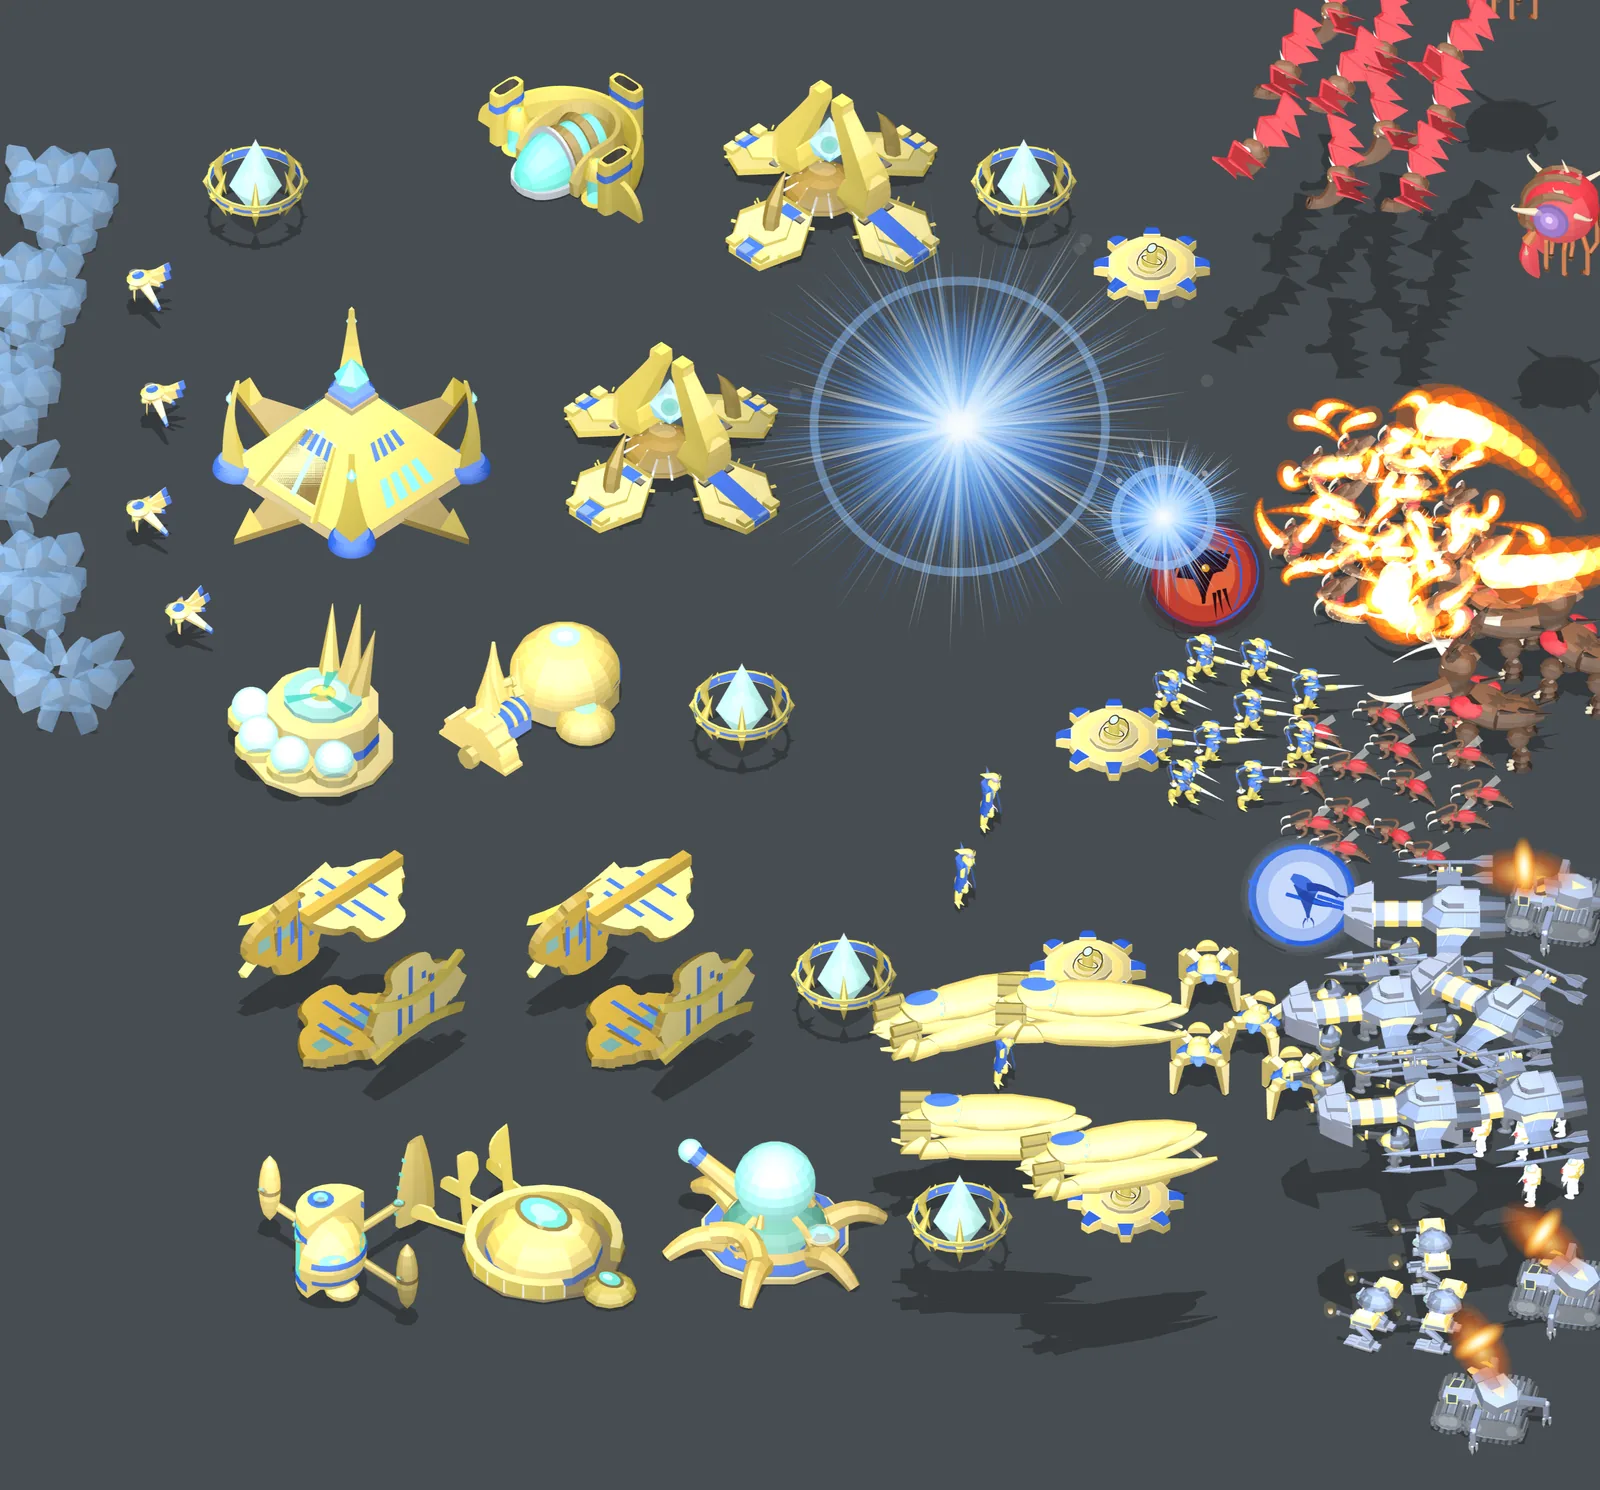
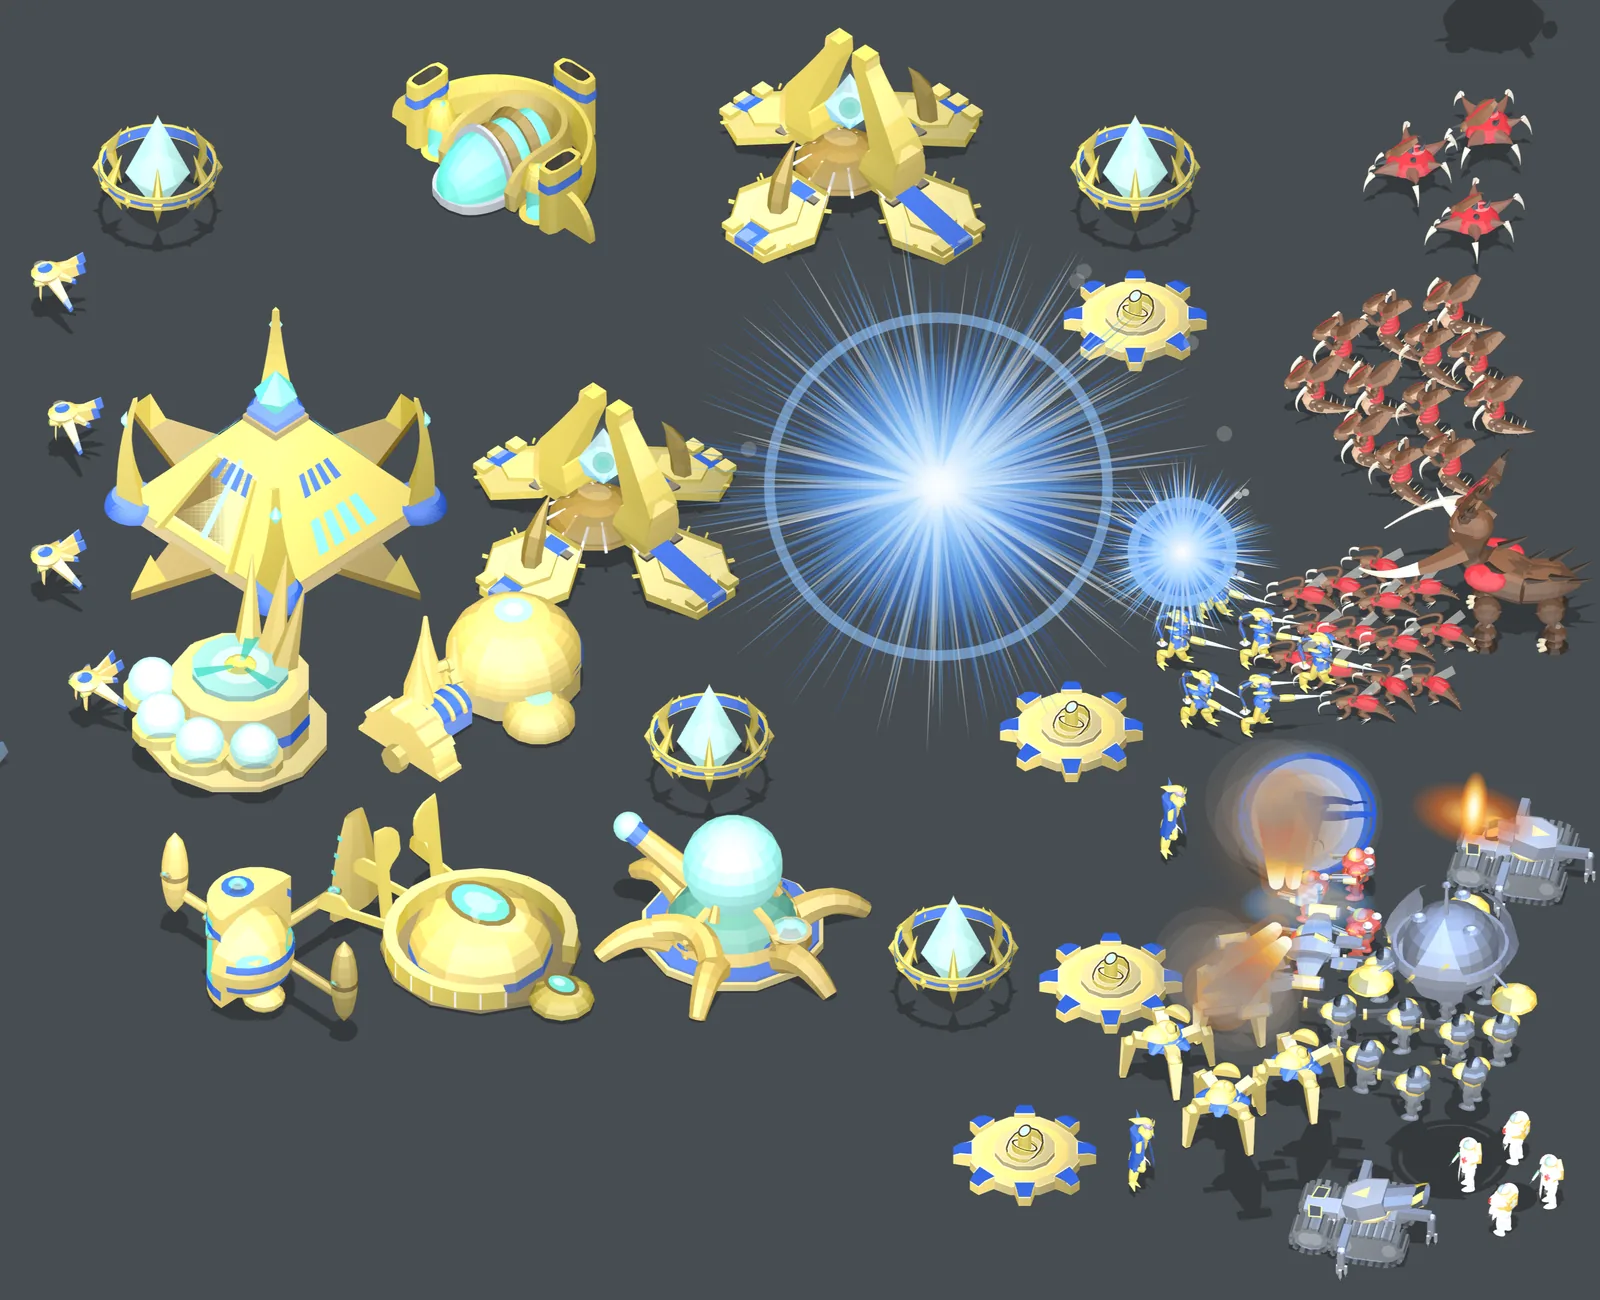
버전 5 안내: 비교 그림을 플토 본진 클로즈업으로 다시 찍음(건물 밀집 · 침공 병력 늘림)
Claude-Session: https://claude.ai/code/session_01Pw45cprVvGiRncJEhCPMzA

diff --git a/src/updates/UpdateV5.tsx b/src/updates/UpdateV5.tsx
@@ -1,6 +1,7 @@
 /* 버전 5 안내 — 재생기 업데이트(2026-10-31, 요청: "버전 업 안내를 글자가 아니라 페이지로 · 5버전은 재생기 업데이트 설명 · 그래픽 업그레이드 전후 비교샷 ·
  * 드래그 줌인아웃 부드러워진 거랑 폰 발열 감소도 · 모바일은 전후를 위아래로").
- * 비교 그림은 scplay scripts/showcase-shot.mjs 로 찍은 같은 장면·같은 순간이다(이전 = 10-29 그래픽 손질 앞 재생기 · 이후 = 11-01 재질 결 아틀라스 판 · --atlas spr). */
+ * 비교 그림은 scplay scripts/showcase-shot.mjs 로 찍은 같은 장면·같은 순간이다(이전 = 10-29 그래픽 손질 앞 재생기 · 이후 = 11-01 재질 결 아틀라스 판 · --atlas spr).
+ * (11-01 되요청: "건물 넥서스 중심으로 밀집 · 공격 온 유닛 더 많이 · 럴커 파뱃 메딕 베슬 레이스 추가 골리앗 빼기" → "스타게이트 캐리어 뮤탈 다크아칸(기술) 배틀 제거 · 더 클로즈업") — 배율 6.2 클로즈업 1600×1300. */
 const IMG = `${import.meta.env.BASE_URL}updates/v5/`;
 
 /** 한 컷 전후(2026-10-31, 요청: "유닛 나열은 필요 없을 듯 · 한 컷" → "플토 본진 · 건물들과 파일런 포톤캐논 · 거기에 저그랑 테란이 쳐들어간 그림"). */
@@ -9,7 +10,7 @@ function Compare() {
     <div className="scr-up-compare">
       {(["before", "after"] as const).map((k) => (
         <figure key={k} className={`scr-up-shot is-${k}`}>
-          <img src={`${IMG}tossmain-${k}.webp`} alt={`재생기 ${k === "before" ? "이전" : "이후"} 화면`} loading="lazy" decoding="async" width={1600} height={1490} />
+          <img src={`${IMG}tossmain-${k}.webp`} alt={`재생기 ${k === "before" ? "이전" : "이후"} 화면`} loading="lazy" decoding="async" width={1600} height={1300} />
           <figcaption>{k === "before" ? "이전" : "이후"}</figcaption>
         </figure>
       ))}
